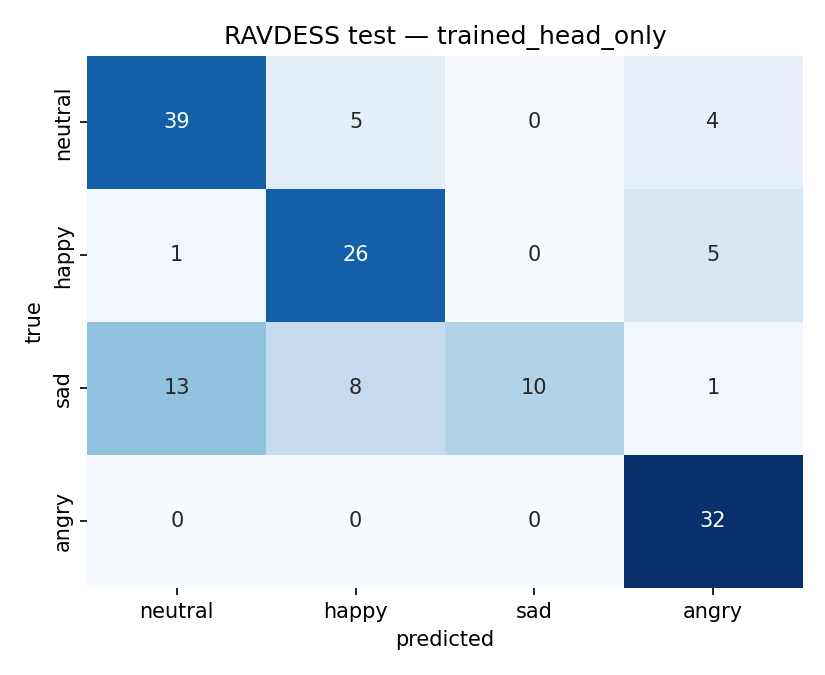
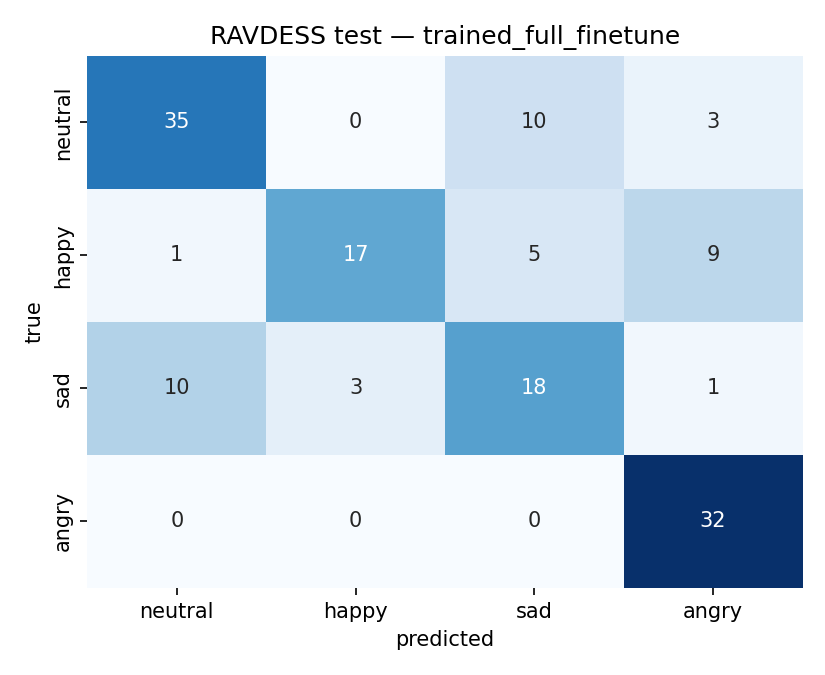
feat: add full fine-tune results — 19pt cross-corpus gap vs 42pt for head-only
RAVDESS test 70.8% / F1 0.70; CREMA-D OOD 51.7% / F1 0.48. Unfreezing the transformer trades ~3pt of in-corpus accuracy for nearly 20pt of cross-corpus gain.

diff --git a/README.md b/README.md
@@ -26,29 +26,40 @@ Self-supervised pretraining on LibriSpeech gives a strong audio representation f
 
 ## Current results
 
-10 epochs, head-only fine-tune (encoder frozen), ~4.5 min on Apple Silicon MPS. Trained weights live at `checkpoints/best.pt`; raw numbers in [`results/metrics.json`](results/metrics.json):
+Two training regimes, 10 epochs each on Apple Silicon MPS. Raw numbers in [`results/metrics.json`](results/metrics.json):
 
-| Split              | Before (random head) | After (10 ep, frozen enc.) | n    |
-|--------------------|----------------------|----------------------------|------|
-| RAVDESS test       | 29.9% / F1 0.19      | **74.3% / F1 0.71**        |  144 |
-| CREMA-D (OOD)      | 26.3% / F1 0.11      | 32.1% / F1 0.23            | 4900 |
+| Model                          | RAVDESS test (in-corpus) | CREMA-D (OOD)   | Cross-corpus gap | Train time |
+|--------------------------------|--------------------------|-----------------|------------------|------------|
+| Random head (baseline)         | 29.9% / F1 0.19          | 26.3% / F1 0.11 | —                | —          |
+| **Head-only fine-tune**        | **74.3% / F1 0.71**      | 32.1% / F1 0.23 | **42 pts**       | ~5 min     |
+| **Full fine-tune (encoder unfrozen)** | 70.8% / F1 0.70   | **51.7% / F1 0.48** | **19 pts**   | ~10 min    |
 
-The **42-point drop** from RAVDESS to CREMA-D is the whole point of the exercise. A model that looks solid on its training corpus — 74% on held-out RAVDESS actors, which is already harder than the 85%+ numbers most public notebooks report on random splits — falls apart on a different corpus with different actors, sentences, and recording conditions. CREMA-D accuracy is only ~7 points above the 25% chance floor. The trained head found something RAVDESS-specific (mic, sentence structure, intensity distribution) rather than a corpus-invariant representation of emotion.
+**The interesting result is the trade-off.** Head-only fine-tune is slightly better on RAVDESS itself (the projector + classifier squeeze the most out of RAVDESS-specific embedding directions) but collapses on CREMA-D. Full fine-tuning gives up a few points on RAVDESS but nearly **doubles** cross-corpus accuracy — unfreezing the transformer blocks lets the model re-learn audio representations that are less tied to RAVDESS's recording conditions, 2 stock sentences, and theatrical intensity distribution.
 
-This is the number recruiters should see on a resume. Not "I got 90% on RAVDESS" — *everyone* got 90% on RAVDESS. The value is reporting the drop honestly and having the pipeline to measure it.
+A 19-point cross-corpus gap is still large. That's honest: closing it further needs real domain-adaptation techniques (augmentation, adversarial objectives, or training on a mix of corpora) — see the roadmap.
+
+Most public RAVDESS notebooks post 85–95% accuracy on a random train/test split. Our 74% / 71% numbers come from a **speaker-stratified** split: no actor appears in both train and test. Those published numbers are inflated by speaker leakage.
 
 ![RAVDESS confusion](results/ravdess_confusion.png)
 ![CREMA-D confusion](results/crema_d_confusion.png)
 
-Regenerate anytime with `python -m src.train && python -m src.evaluate`.
+Reproduce with:
+
+```bash
+python -m src.train --epochs 10                    # head-only
+python -m src.train --epochs 10 --lr 3e-5 --unfreeze-encoder  # full fine-tune
+python -m src.evaluate                             # uses checkpoints/best.pt
+```
 
 ## Roadmap
 
-- [x] Fine-tune classifier head on the RAVDESS train split (frozen encoder)
-- [x] Report the cross-corpus accuracy drop with a trained model
-- [ ] Full fine-tune (unfreeze transformer) — expected to push RAVDESS into the 80s
+- [x] Fine-tune classifier head on RAVDESS (frozen encoder)
+- [x] Full fine-tune (unfreeze transformer)
+- [x] Report the cross-corpus accuracy drop for both regimes
+- [ ] Regularize the full fine-tune — label smoothing, dropout on the head, earlier stopping; val loss diverged by epoch 4
 - [ ] Add SpecAugment and waveform-level augmentation (noise, pitch, time-stretch)
-- [ ] Domain-adversarial training to close the RAVDESS → CREMA-D gap
+- [ ] Domain-adversarial training to close the remaining 19-point RAVDESS → CREMA-D gap
+- [ ] Co-training on CREMA-D + RAVDESS and measuring transfer to IEMOCAP
 - [ ] Extend to multilingual SER via XLSR-53
 - [ ] Add a calibration plot — SER models are usually overconfident OOD
 
